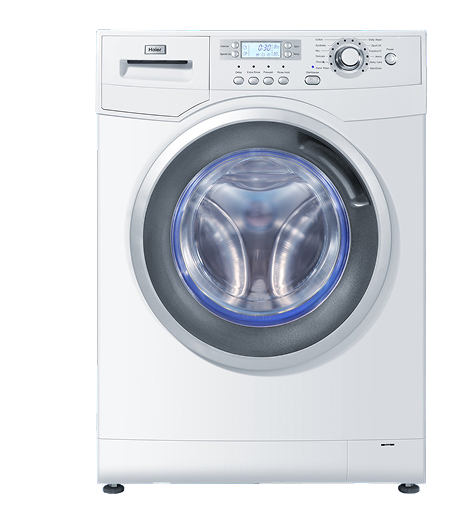
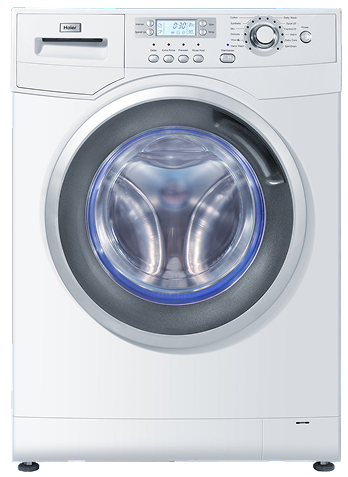
feat: layout and spacing adjustments. Cropped image to fit into design.

diff --git a/index.html b/index.html
@@ -36,9 +36,9 @@
   <body class="container mx-auto">
     <header>
       <!-- Navbar -->
-      <nav class="bg-neutral border-gray-200 ">
+      <nav class=" bg-white md:bg-neutral border-gray-200">
         <div
-          class="max-w-screen-xl flex flex-wrap items-center justify-between mx-auto p-4"
+          class="max-w-screen-xl  flex flex-wrap items-center justify-between mx-auto px-6 py-2"
         >
           <!-- Nav Logo-->
           <a href="#" class="flex items-center space-x-3 rtl:space-x-reverse">
@@ -68,9 +68,11 @@
               <div class="w-6 h-0.5 bg-grey rounded-full"></div>
             </div>
           </button>
+
+          <!--Mobile menu-->
           <div class="hidden w-full md:block md:w-auto" id="navbar-default">
             <ul
-              class="font-medium flex flex-col p-4 md:p-0 mt-4 border border-gray-100 rounded-lg bg-white md:flex-row md:space-x-8 rtl:space-x-reverse md:mt-0 md:border-0 md:bg-white  text-grey"
+              class="font-medium font-inter flex flex-col p-4 md:p-0 mt-4 border border-gray-100 rounded-lg bg-white md:flex-row md:space-x-8 rtl:space-x-reverse md:mt-0 md:border-0 md:bg-white  text-grey"
             >
               <li>
                 <a
@@ -118,7 +120,7 @@
             class="inline-flex items-center py-2 px-4 pr-4 mb-5 text-xsmall bg-secondary rounded-full text-black w-fit m-auto"
             role="alert"
           >
-            <span class="text-xsmall m-auto font-bold"
+            <span class="text-xsmall m-auto font-bold font-inter"
               >20&percnt; Discount for 1 Month subscription</span
             >
               <path
@@ -130,13 +132,13 @@
           </a>
           <div class="mr-auto place-self-center lg:col-span-7">
             <h1
-              class="max-w-2xl mb-5 font-bold text-large text-center     text-primary "
+              class="max-w-2xl mb-5 font-bold text-large text-center font-grandstander text-primary "
             >
               Laundry today, <br />
               Fresh tomorrow.
             </h1>
             <p
-              class="max-w-2xl mb-8 font-regular text-primary lg:mb-8 md:text-lg lg:text-xl "
+              class="max-w-2xl mb-8 font-regular font-inter text-primary lg:mb-8 md:text-lg lg:text-xl "
             >
               Lux Laundry service will wash, dry, steam, and fold your laundry
               at an affordable price. Delivery options available!
@@ -144,12 +146,24 @@
 
             <a
               href="#"
-              class="inline-flex items-center justify-center px-7 py-3  font-bold text-small text-center text-black bg-secondary rounded-full"
+              class="inline-flex items-center justify-center px-7 py-3 mb-8  font-bold text-small text-center text-black bg-secondary rounded-full"
             >
               How it works
             </a>
           </div>
-          <div class=" m-auto w-80 object-contain object-center  lg:mt-0 lg:col-span-5 lg:flex">
+
+          <div class="flex justify-evenly mb-8">
+            <div class="flex flex-col">
+              <h3 class="text-large font-bold font-inter">12m&plus;</h3>
+              <p class="text-accent text-xsmall font-regular">Happy Customers</p>
+            </div>
+                      <div class="flex flex-col">
+              <h3 class="text-large font-bold font-inter">10&plus;</h3>
+              <p class="text-accent text-xsmall font-regular">Years of Experience</p>
+            </div>
+          </div>
+          <!--Hero Image-->
+          <div class=" m-auto w-60 object-contain object-center  lg:mt-0 lg:col-span-5 lg:flex">
             <img
               src="src/assets/images/hero/washing-machine.png"
               alt="A washing machine"
